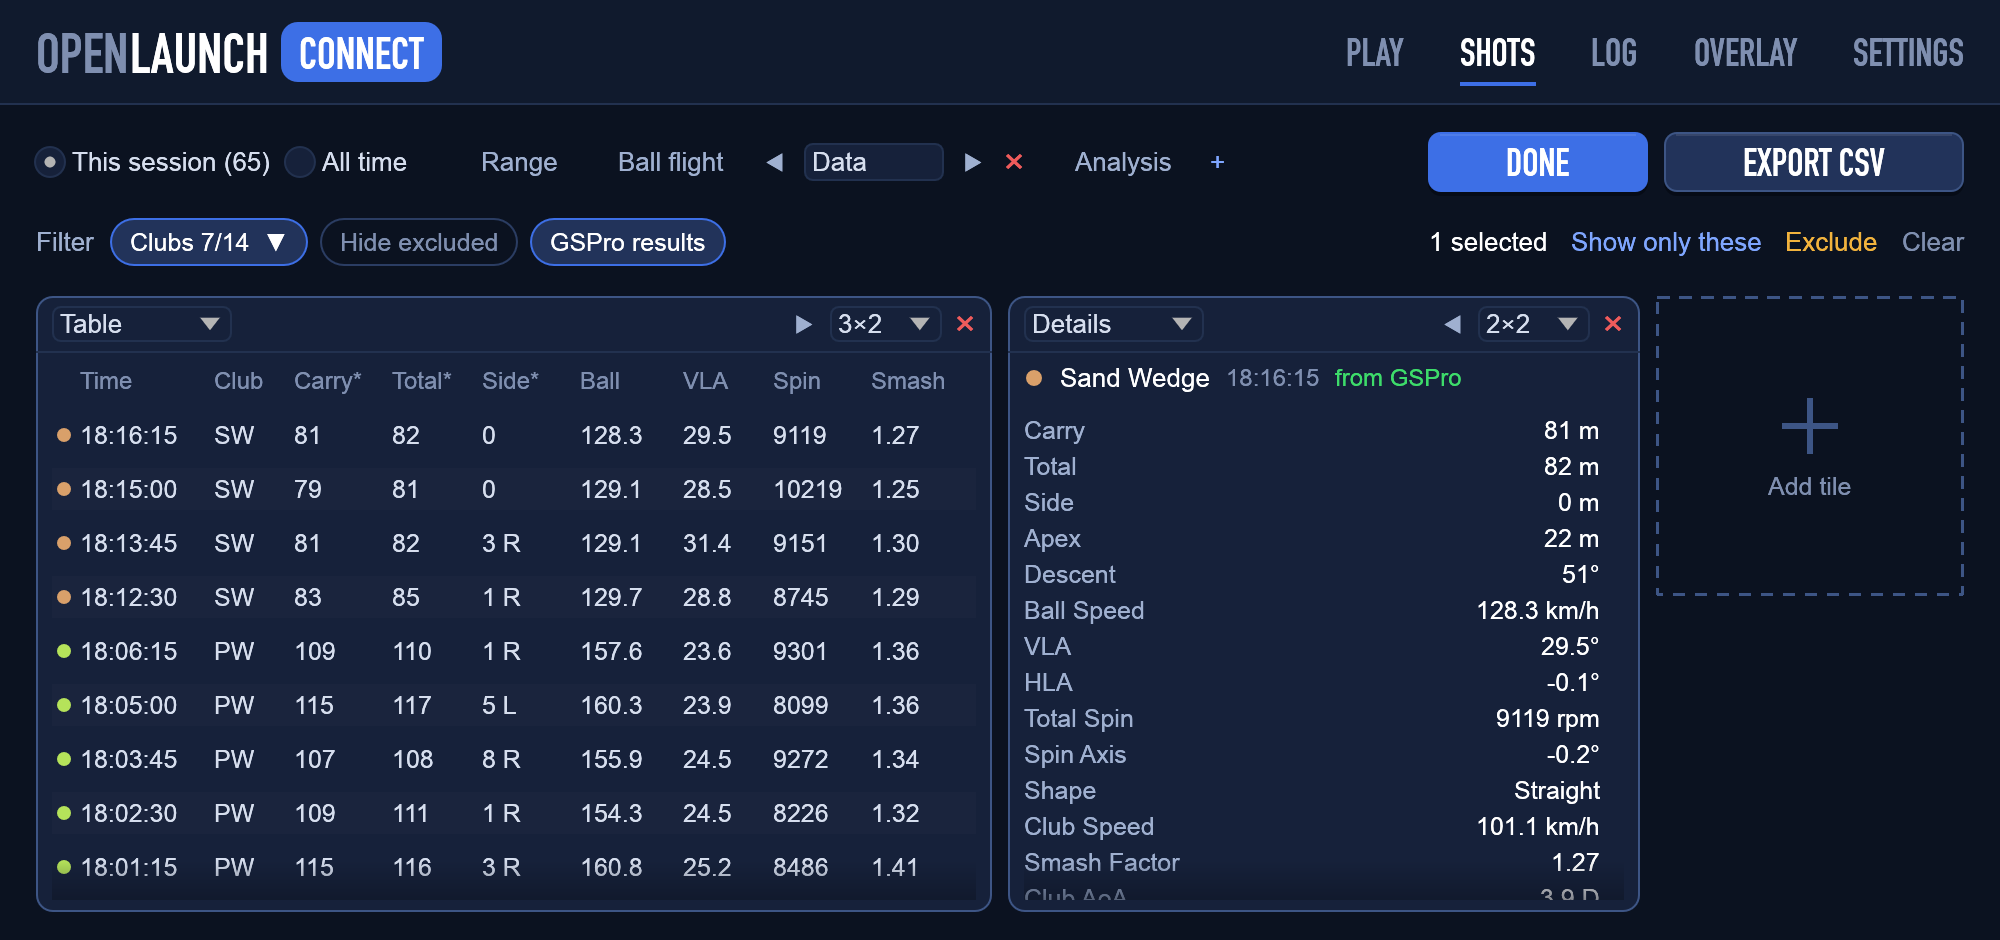
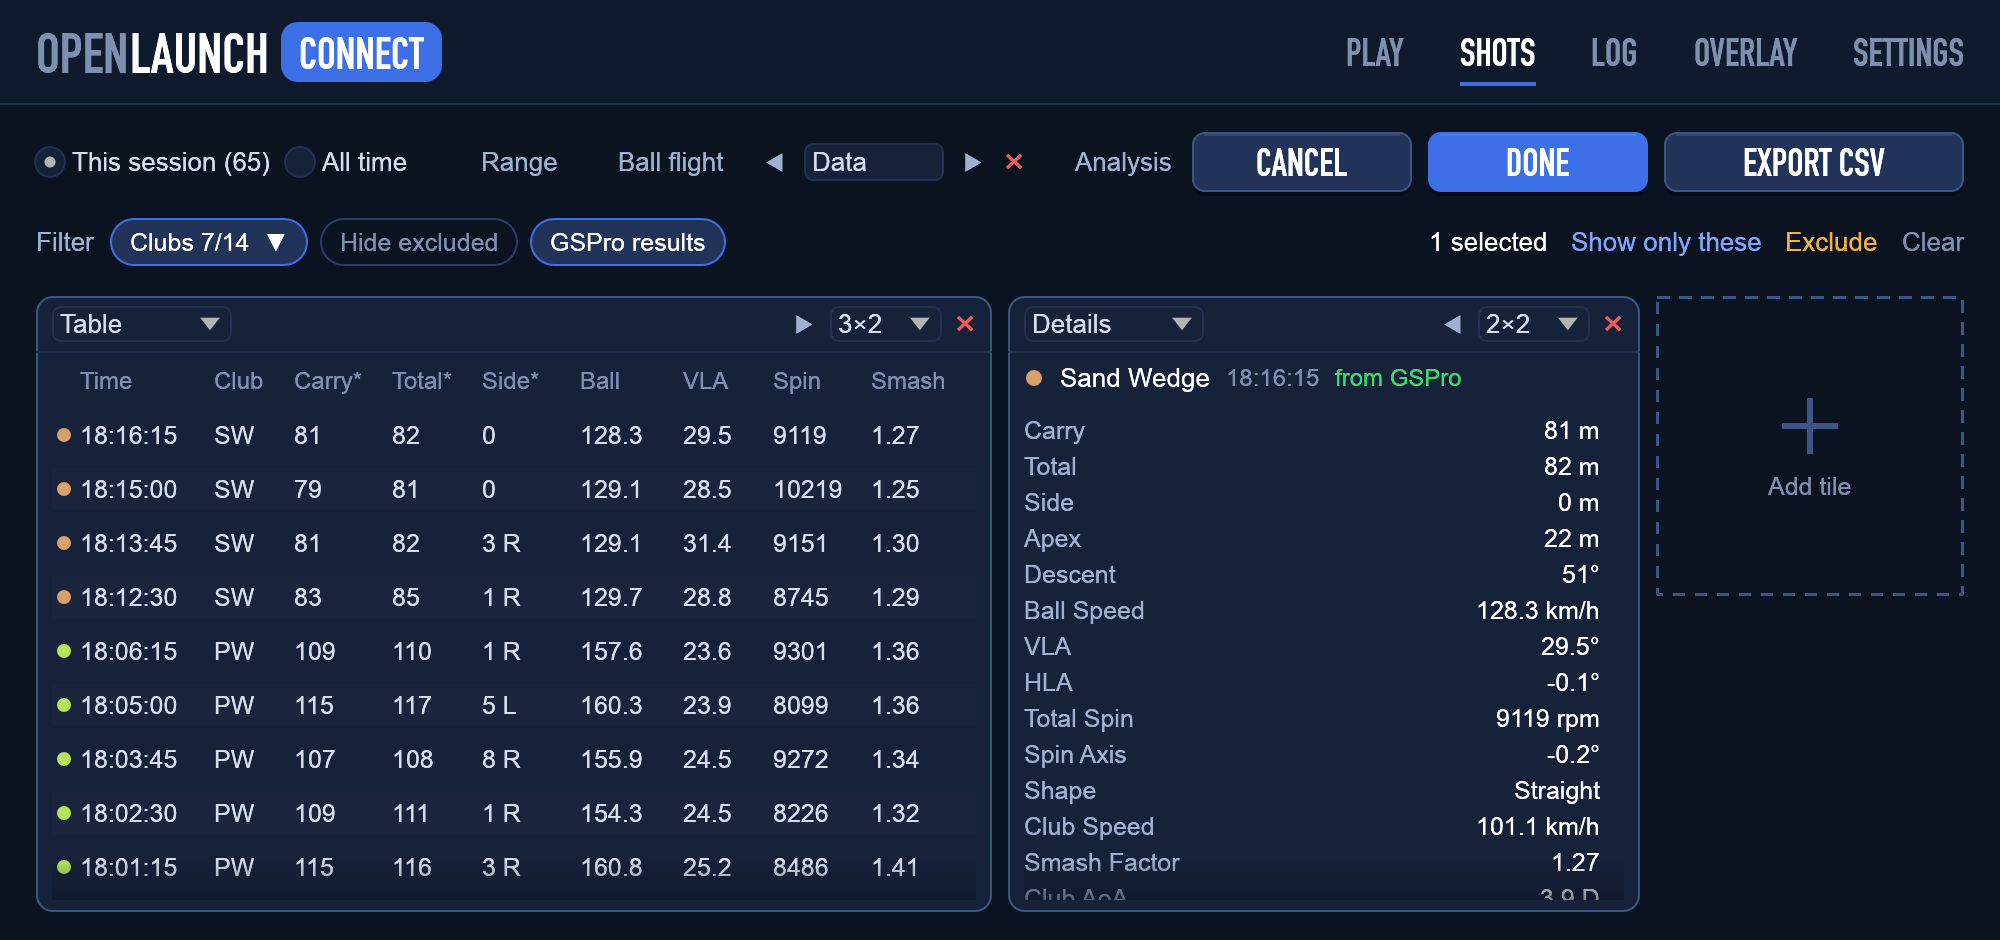
Cancel button while customizing the shots page; CONFIGURE becomes CUSTOMIZE
CANCEL restores the pages and the page shown from when CUSTOMIZE was
clicked (the changes were saved at once, so it saves them back). kit::button
now tells AccessKit its label, so tests can click it.

Changed region(s): [[0.589, 0.1234, 0.713, 0.216]]

diff --git a/src/ui/explorer.rs b/src/ui/explorer.rs
@@ -13,7 +13,7 @@ use std::sync::{PoisonError, RwLock};
 
 use crate::flight::{self, Flight};
 
-use crate::settings::{DEFAULT_PAGE_NAMES, ExplorerPage, Tile, TileOverlay, TileSize};
+use crate::settings::{DEFAULT_PAGE_NAMES, Explorer, ExplorerPage, Tile, TileOverlay, TileSize};
 
 use super::*;
 
@@ -123,6 +123,8 @@ fn key(s: &ShotRecord) -> Key {
 pub(super) struct ExplorerState {
     page: usize,
     arrange: bool,
+    /// Pages and page shown when CUSTOMIZE was clicked; CANCEL goes back to them.
+    before_arrange: Option<(Explorer, usize)>,
     hidden_clubs: BTreeSet<Option<String>>,
     hide_excluded: bool,
     only_selected: bool,
@@ -444,11 +446,27 @@ impl Page for ShotsPage {
             if button(ui, rect, tr("EXPORT CSV"), Icon::None, false, !shots.is_empty(), tr("No shots to export")) {
                 app.explorer.export_dialog = true;
             }
-            let label = if app.explorer.arrange { tr("DONE") } else { tr("CONFIGURE") };
-            let w = ui.painter().layout_no_wrap(tr("CONFIGURE").to_string(), cond(19.0), WHITE).size().x + 36.0;
-            let (rect, _) = ui.allocate_exact_size(vec2(w.max(110.0), 30.0), Sense::hover());
+            let width = |ui: &egui::Ui, labels: &[&str]| {
+                let w = labels.iter().map(|l| ui.painter().layout_no_wrap((*l).to_string(), cond(19.0), WHITE).size().x).fold(0.0, f32::max);
+                (w + 36.0).max(110.0)
+            };
+            let label = if app.explorer.arrange { tr("DONE") } else { tr("CUSTOMIZE") };
+            let (rect, _) = ui.allocate_exact_size(vec2(width(ui, &[tr("CUSTOMIZE"), tr("DONE")]), 30.0), Sense::hover());
             if button(ui, rect, label, Icon::None, app.explorer.arrange, true, "") {
                 app.explorer.arrange = !app.explorer.arrange;
+                app.explorer.before_arrange = app.explorer.arrange.then(|| (layout.clone(), app.explorer.page));
+            }
+            if app.explorer.arrange {
+                // Drops what was changed since CUSTOMIZE (the changes were saved at once).
+                let (rect, _) = ui.allocate_exact_size(vec2(width(ui, &[tr("CANCEL")]), 30.0), Sense::hover());
+                if button(ui, rect, tr("CANCEL"), Icon::None, false, true, "") {
+                    app.explorer.arrange = false;
+                    if let Some((before, page)) = app.explorer.before_arrange.take() {
+                        layout_changed |= layout != before;
+                        layout = before;
+                        app.explorer.page = page.min(layout.pages.len().saturating_sub(1));
+                    }
+                }
             }
             if let Some(note) = &self.export_note {
                 ui.label(RichText::new(note).size(12.0).color(MUTED));
@@ -569,7 +587,7 @@ impl Page for ShotsPage {
                 ui.painter().text(
                     area.center(),
                     Align2::CENTER_CENTER,
-                    tr("No tiles on this page – CONFIGURE adds some."),
+                    tr("No tiles on this page – CUSTOMIZE adds some."),
                     FontId::proportional(13.0),
                     MUTED,
                 );
@@ -1656,10 +1674,40 @@ mod tests {
         assert_eq!(harness.state().saved.explorer.pages[0].tiles[0], gapping);
     }
 
+    /// CANCEL undoes what was changed since CUSTOMIZE; DONE keeps it.
+    #[test]
+    fn cancel_undoes_the_changes_since_customize() {
+        use egui_kittest::kittest::Queryable;
+
+        let _state = crate::test_util::state_lock();
+        let tiles = vec![Tile::new("details", TileSize::W2H2)];
+        let mut harness = explorer_with(tiles.clone(), false);
+        let add_one = |harness: &mut egui_kittest::Harness<'static, App>| {
+            harness.get_by_label("CUSTOMIZE").click();
+            harness.run_steps(3);
+            harness.get_by_label("Add tile").click();
+            harness.run_steps(3);
+            harness.get_by_label("Table").click();
+            harness.run_steps(3);
+            assert_eq!(harness.state().saved.explorer.pages[0].tiles.len(), 2, "added and saved at once");
+        };
+        add_one(&mut harness);
+        harness.get_by_label("CANCEL").click();
+        harness.run_steps(3);
+        assert!(!harness.state().explorer.arrange);
+        assert_eq!(harness.state().saved.explorer.pages[0].tiles, tiles, "back as before");
+
+        add_one(&mut harness);
+        harness.get_by_label("DONE").click();
+        harness.run_steps(3);
+        assert!(!harness.state().explorer.arrange);
+        assert_eq!(harness.state().saved.explorer.pages[0].tiles.len(), 2, "kept");
+    }
+
     /// The tiles the app starts with are of the core's kinds.
     #[test]
     fn default_tiles_are_of_the_core_kinds() {
-        let pages = crate::settings::Explorer::default().pages;
+        let pages = Explorer::default().pages;
         let overlay = TileOverlay::default().tile;
         for tile in pages.iter().flat_map(|p| &p.tiles).chain([&Tile::default(), &overlay]) {
             assert!(CORE_KINDS.iter().any(|k| k.id() == tile.kind), "{}", tile.kind);

diff --git a/src/i18n.rs b/src/i18n.rs
@@ -326,7 +326,7 @@ fn core(en: &str) -> Option<&'static str> {
         "Page {n}" => "Seite {n}",
         "Add a page" => "Seite hinzufügen",
         "DONE" => "FERTIG",
-        "CONFIGURE" => "KONFIGURIEREN",
+        "CUSTOMIZE" => "ANPASSEN",
         "Add tile" => "Kachel hinzufügen",
         "Right-click for the page's settings" => "Rechtsklick für die Einstellungen der Seite",
         "Remove page" => "Seite entfernen",
@@ -338,7 +338,7 @@ fn core(en: &str) -> Option<&'static str> {
         "Show all" => "Alle zeigen",
         "Show only these" => "Nur diese zeigen",
         "{n} selected" => "{n} ausgewählt",
-        "No tiles on this page – CONFIGURE adds some." => "Keine Kacheln auf dieser Seite – über KONFIGURIEREN hinzufügen.",
+        "No tiles on this page – CUSTOMIZE adds some." => "Keine Kacheln auf dieser Seite – über ANPASSEN hinzufügen.",
         "Remove tile" => "Kachel entfernen",
         "Move later" => "Nach hinten",
         "Move earlier" => "Nach vorn",

diff --git a/src/ui/kit.rs b/src/ui/kit.rs
@@ -374,6 +374,7 @@ fn draw_icon(p: &egui::Painter, c: egui::Pos2, icon: Icon, color: Color32) {
 pub fn button(ui: &mut egui::Ui, rect: Rect, label: &str, icon: Icon, primary: bool, enabled: bool, disabled_hint: &str) -> bool {
     let sense = if enabled { Sense::click() } else { Sense::hover() };
     let resp = ui.interact(rect, ui.id().with(("button", label)), sense);
+    resp.widget_info(|| egui::WidgetInfo::labeled(egui::WidgetType::Button, enabled, label));
     let hovered = enabled && resp.hovered();
     let pressed = enabled && resp.is_pointer_button_down_on();
     let r = if pressed { rect.translate(vec2(0.0, 1.0)) } else { rect };

diff --git a/README.md b/README.md
@@ -188,13 +188,13 @@ the spin axis, named for right-handers.
 Click a shot in a table or a dot in a chart to select it everywhere; then show only the selected shots, or
 *Exclude* misreads from the stats and exports (*Count* takes them back).
 
-**Your own pages:** *CONFIGURE* shows an empty tile with **+** to add tiles, a menu on each tile for what it shows
+**Your own pages:** *CUSTOMIZE* shows an empty tile with **+** to add tiles, a menu on each tile for what it shows
 and its size (1×1 up to the whole page), and lets you drag tiles into place or remove them (×). The page shown can be
-renamed, moved and removed right in its tab; **+** next to the tabs adds a page. The layout is saved; *Reset shots
-view* in the settings brings back the default pages.
+renamed, moved and removed right in its tab; **+** next to the tabs adds a page. *DONE* keeps the changes, *CANCEL*
+undoes them. The layout is saved; *Reset shots view* in the settings brings back the default pages.
 
 <p align="center">
-  <img src="docs/images/screenshot-configure.png" alt="Configure mode: tile menus, the empty tile with + and the page's tools in its tab" width="80%">
+  <img src="docs/images/screenshot-configure.png" alt="Customize mode: tile menus, the empty tile with + and the page's tools in its tab" width="80%">
 </p>
 
 *EXPORT CSV* writes the shots shown and asks for the layout: OpenLaunch, Garmin Golf or Awesome Golf.

diff --git a/CHANGELOG.md b/CHANGELOG.md
@@ -38,6 +38,8 @@ The format is based on [Keep a Changelog](https://keepachangelog.com/en/1.1.0/),
   (left-most to right-most landing). The details' *Side\** is now also at the landing point.
 
 ### Changed
+- **Shots page:** *CONFIGURE* is now called *CUSTOMIZE*, and *CANCEL* next to *DONE* undoes the changes made to the
+  pages and tiles since.
 - **Overlay in tiles:** the overlay shows its values in columns of two – status and club, ball and club speed, smash
   factor and spin, VLA and HLA, distance to the pin and battery – followed by the impact graphics, with symbols
   instead of words (a golf ball with speed lines, a driver, club face and ball, a ball with an arrow around it, a
